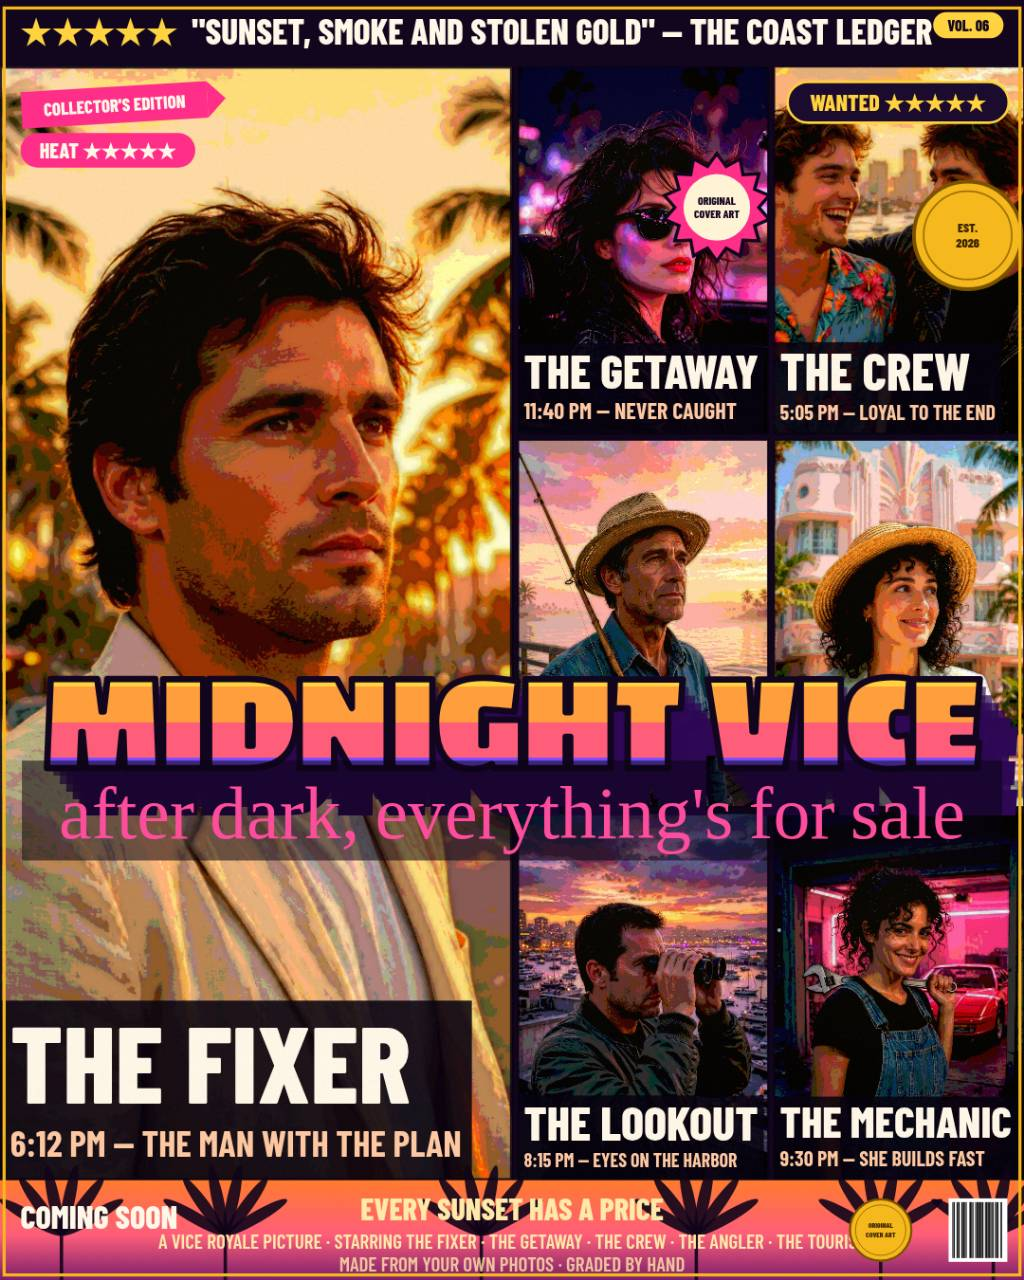
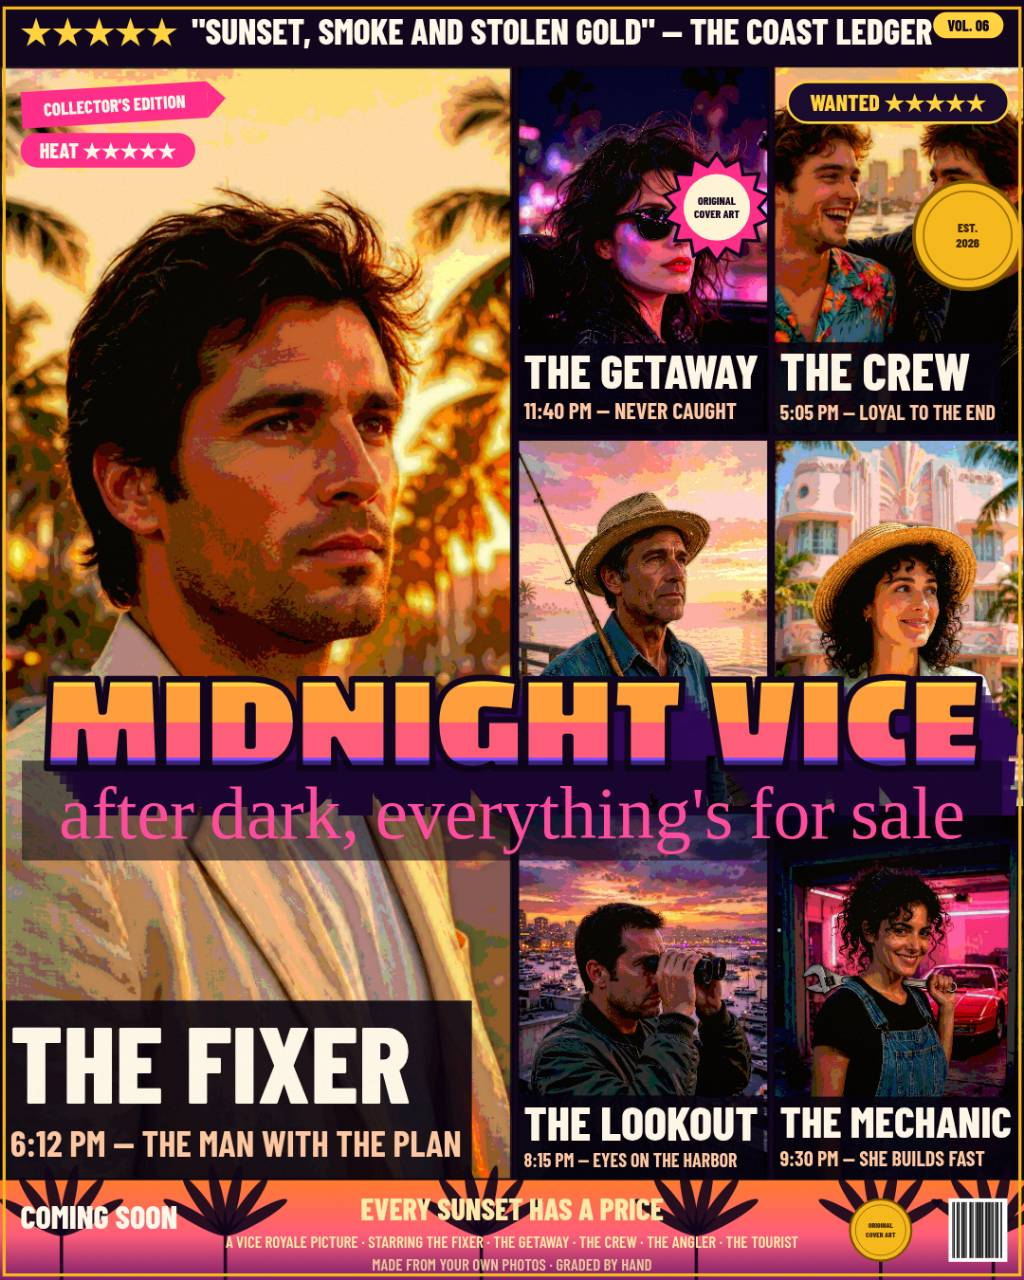
Fix: billing never runs under the gold seal (portrait clipped THE TOURIST)
The centred billing was fitted to a fixed 0.70W, letting it reach 0.85W —
past the seal's left edge (0.86W minus its H*0.024 radius) in portrait,
so the last cast name slid under the seal. Fit it to a safe width derived
from the seal geometry instead, and wrap to two lines if even the minimum
size cannot fit the whole cast.

Changed region(s): [[0.1562, 0.9375, 0.8438, 1.0]]

diff --git a/app/src/cover.js b/app/src/cover.js
@@ -236,6 +236,17 @@ export function fitText(ctx, text, maxW, startPx, font, minPx) {
   return px;
 }
 
+// How wide a centred line in the bottom band may be before it touches the
+// gold seal. The seal sits at W*0.86 with radius H*0.024, so a fixed 0.70W
+// cap lets a centred line reach 0.85W — past the seal's left edge in
+// portrait, where the last cast name slid under the seal and was clipped.
+// The safe width is derived from the seal geometry, so it holds at every
+// export size: the line's right edge stops a W*0.02 gap short of the seal.
+export function billingSafeWidth(W, H) {
+  const sealLeft = W * 0.86 - H * 0.024;
+  return Math.max(80, 2 * (sealLeft - W * 0.02 - W * 0.5));
+}
+
 export function coverRect(img, rect, zoom, dx, dy, face) {
   // Cover-fit an image into rect, with zoom/pan and a face bias (faces sit
   // in the upper third, so the face toggle re-centres the crop there).
@@ -876,17 +887,40 @@ export async function renderCover(ctx, state, W, H, images, opts) {
   ctx.font = `800 ${Math.round(tagPx * 0.95)}px ${FONT_LABEL}`;
   ctx.textAlign = 'center';
   ctx.fillText(state.tagline, W * 0.5, botBandY + BB * H * 0.30);
-  // Billing lists the cast roles, fitted so it never reaches the seal or
-  // barcode on the right.
+  // Billing lists the cast roles, fitted to the safe width so it never
+  // reaches the seal or barcode on the right. If even the minimum size
+  // cannot fit the whole cast on one line, the billing wraps to two lines
+  // at a " · " boundary instead of clipping a name.
   const castNames = (state.panels || []).slice(0, 5).map((p) => p.role).join(' · ');
   const billing = `A VICE ROYALE PICTURE · STARRING ${castNames}`;
   const billing2 = 'MADE FROM YOUR OWN PHOTOS · GRADED BY HAND';
-  const bPx = fitText(ctx, billing, W * 0.70, Math.max(9, Math.round(BB * H * 0.22)), (s) => `600 ${s}px ${FONT_LABEL}`, 8);
+  const safeW = billingSafeWidth(W, H);
+  const bPx = fitText(ctx, billing, safeW, Math.max(9, Math.round(BB * H * 0.22)), (s) => `600 ${s}px ${FONT_LABEL}`, 8);
   ctx.font = `600 ${bPx}px ${FONT_LABEL}`;
-  ctx.fillStyle = '#FFE9A8';
-  ctx.fillText(billing, W * 0.5, botBandY + BB * H * 0.62);
-  ctx.fillStyle = 'rgba(255, 233, 168, 0.8)';
-  ctx.fillText(billing2, W * 0.5, botBandY + BB * H * 0.85);
+  if (ctx.measureText(billing).width <= safeW) {
+    ctx.fillStyle = '#FFE9A8';
+    ctx.fillText(billing, W * 0.5, botBandY + BB * H * 0.62);
+    ctx.fillStyle = 'rgba(255, 233, 168, 0.8)';
+    ctx.fillText(billing2, W * 0.5, botBandY + BB * H * 0.85);
+  } else {
+    const parts = billing.split(' · ');
+    let line1 = parts[0];
+    let rest = parts.slice(1);
+    for (let i = 1; i < parts.length; i++) {
+      const joined = `${line1} · ${parts[i]}`;
+      if (ctx.measureText(joined).width <= safeW) { line1 = joined; rest = parts.slice(i + 1); }
+      else break;
+    }
+    const line2 = rest.join(' · ');
+    const bPx2 = fitText(ctx, line2, safeW, bPx, (s) => `600 ${s}px ${FONT_LABEL}`, 8);
+    ctx.font = `600 ${bPx2}px ${FONT_LABEL}`;
+    ctx.fillStyle = '#FFE9A8';
+    ctx.fillText(line1, W * 0.5, botBandY + BB * H * 0.52);
+    ctx.fillText(line2, W * 0.5, botBandY + BB * H * 0.70);
+    ctx.font = `600 ${Math.max(8, Math.round(bPx2 * 0.85))}px ${FONT_LABEL}`;
+    ctx.fillStyle = 'rgba(255, 233, 168, 0.8)';
+    ctx.fillText(billing2, W * 0.5, botBandY + BB * H * 0.88);
+  }
   ctx.restore();
   drawGoldSeal(ctx, W * 0.86, botBandY + BB * H * 0.5, H * 0.024, ['ORIGINAL', 'COVER ART']);
   drawBarcode(ctx, W * 0.93, botBandY + BB * H * 0.22, W * 0.05, BB * H * 0.56);
